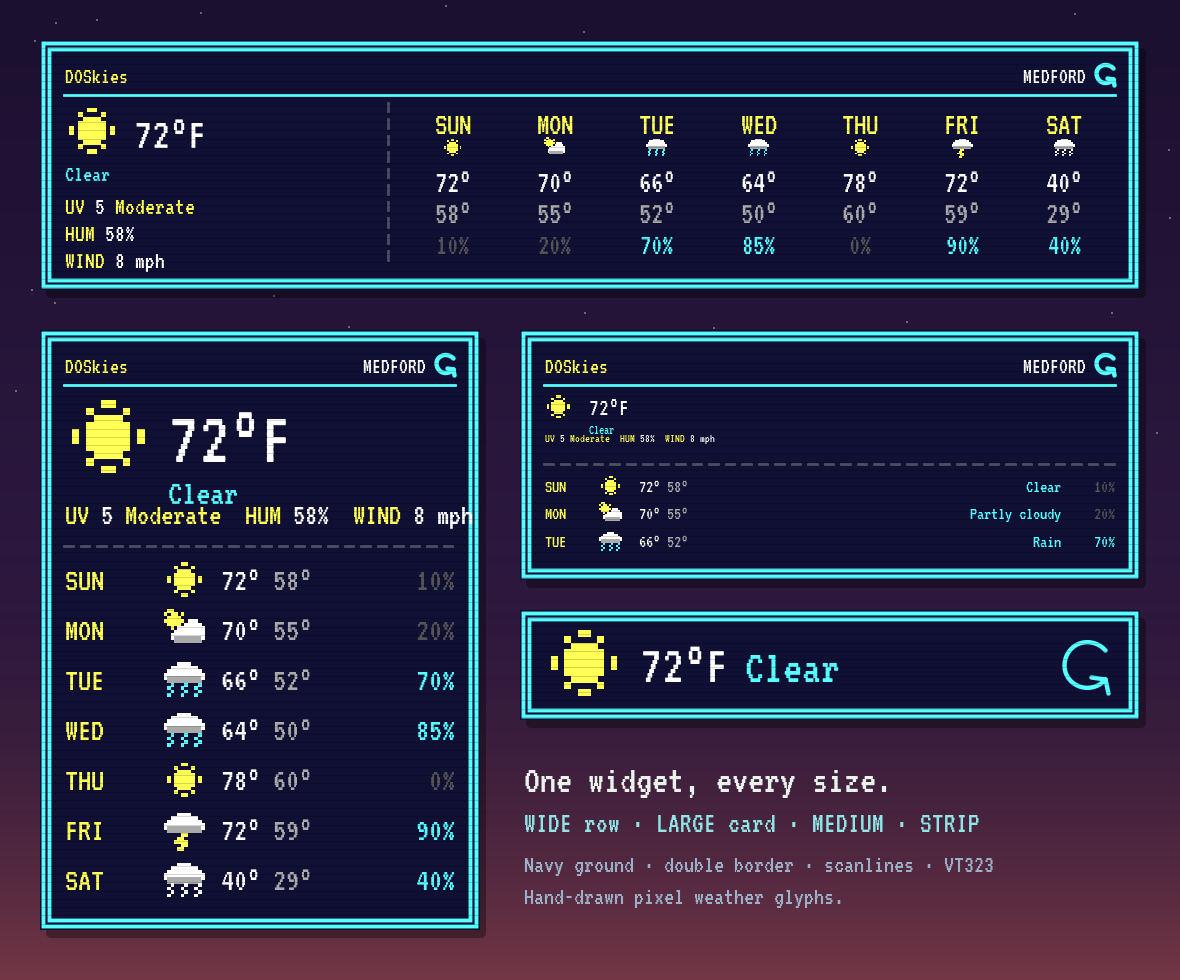
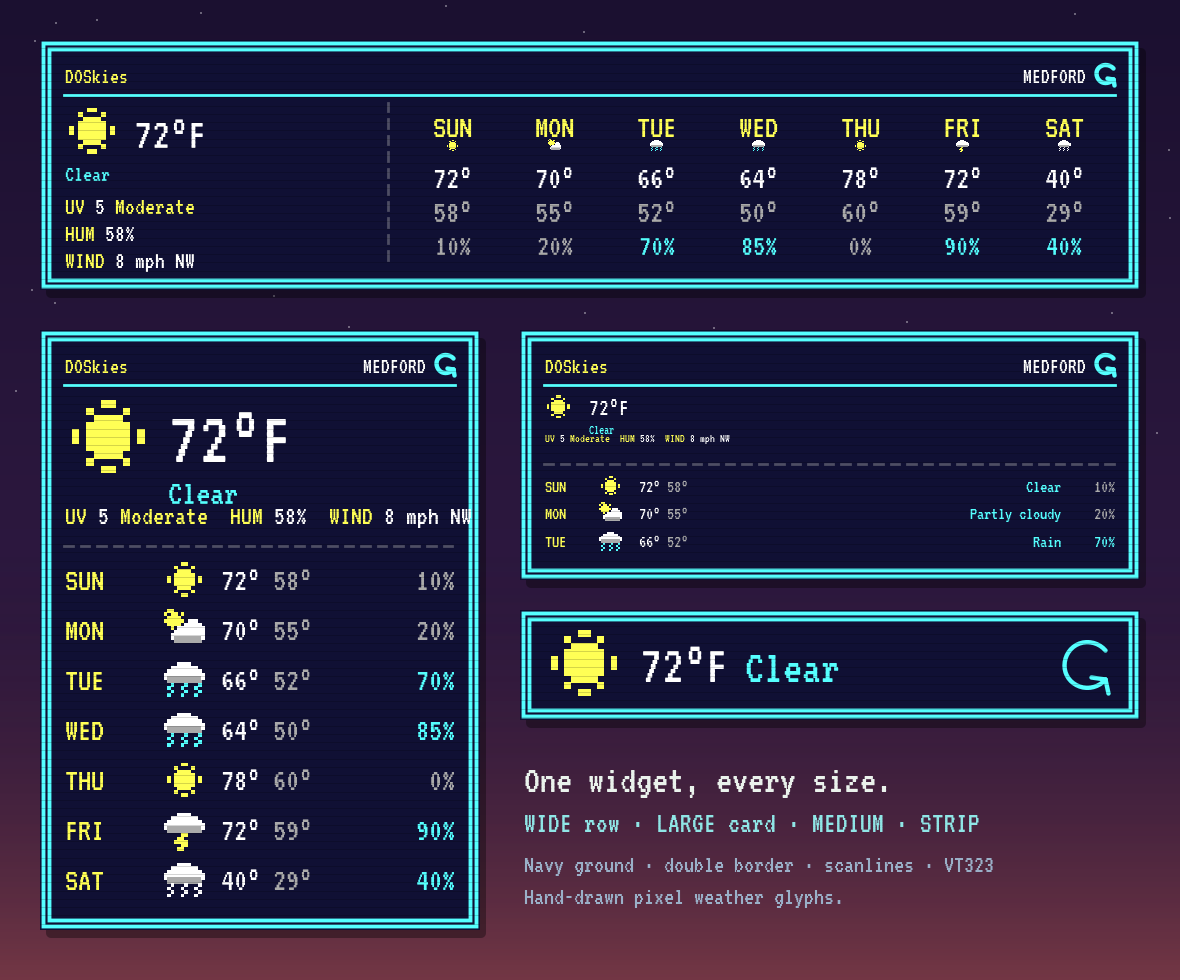
v0.5: widget refresh spinner, bigger WIDE text, wind direction
- The widget's refresh circle now spins while a tapped refresh runs.
  A home-screen widget can't animate on its own, so ForecastWidget
  repaints the refresh glyph as a rotating gapped ring (~170ms/frame)
  for the fetch's duration, driven from RefreshJob (which keeps the
  process alive) and stopped when the fetch finishes. This is the
  widget refresh feedback Dalton actually meant (not the app button).
- WIDE 7-day row: text back up near the blessed size (availH/4.85);
  the day glyph now yields the vertical room instead, so precip still
  fits. Low rain-chance numbers were dark grey (FAINT) and hard to
  read -- now DIM (light grey), in both the wide row and the list.
- Wind direction: fetch wind_direction_10m, add Forecast.Current.windDir
  and Forecast.windCompass (8-point N/NE/.../NW), show it next to the
  wind speed ("WIND 8 mph NW"). drawStatsRow now scales to the panel
  width so the added direction never runs off the edge. Tests cover the
  parse, the compass mapping, and the fetch-URL field.
- Screenshots regenerated to match. Version bumped to 0.5 (code 5).

build.ps1 green: assembleRelease, testDebugUnitTest, lintRelease.

diff --git a/app/src/main/java/app/doskies/CgaRenderer.java b/app/src/main/java/app/doskies/CgaRenderer.java
@@ -62,6 +62,7 @@ final class CgaRenderer {
         boolean statusIsError;  // draw status in BAD
         boolean demo;
         int opacity = 100;      // panel background opacity, 10..100 percent
+        int spin = -1;          // >=0 while a user refresh runs: rotates the refresh glyph (spinner)
     }
 
     private final Paint fill = new Paint(Paint.ANTI_ALIAS_FLAG);
@@ -138,7 +139,7 @@ final class CgaRenderer {
         float iconR = size * 0.42f;
         float iconCx = right - iconR;
         float iconCy = top + size * 0.42f;
-        drawRefreshIcon(cv, iconCx, iconCy, iconR);
+        drawRefreshIcon(cv, iconCx, iconCy, iconR, scr.spin);
         float rx = iconCx - iconR - 4f * d;
         text.setColor(VALUE);
         drawRight(cv, scr.place, rx, baseline, size);
@@ -155,10 +156,16 @@ final class CgaRenderer {
         return ruleY;
     }
 
-    private void drawRefreshIcon(Canvas cv, float cx, float cy, float r) {
+    private void drawRefreshIcon(Canvas cv, float cx, float cy, float r, int spin) {
         stroke.setColor(ACCENT);
         stroke.setStrokeWidth(Math.max(1.4f, 1.6f * d));
         RectF arc = new RectF(cx - r, cy - r, cx + r, cy + r);
+        if (spin >= 0) {
+            // A refresh is running: draw a gapped ring whose gap sweeps round each frame, so the
+            // icon reads as a spinner. ForecastWidget repaints these frames while the fetch runs.
+            cv.drawArc(arc, (spin * 45f) % 360f, 270, false, stroke);
+            return;
+        }
         cv.drawArc(arc, 40, 280, false, stroke);
         // arrowhead near the arc's start (about 40 degrees)
         double a = Math.toRadians(40);
@@ -195,7 +202,7 @@ final class CgaRenderer {
             text.setColor(BAD);
             drawRight(cv, "!", right - size * 0.95f, baseline, size);
         }
-        drawRefreshIcon(cv, right - size * 0.5f, h / 2f, size * 0.42f);
+        drawRefreshIcon(cv, right - size * 0.5f, h / 2f, size * 0.42f, scr.spin);
     }
 
     // ---- WIDE: current on the left, 7 day columns across ----
@@ -234,11 +241,11 @@ final class CgaRenderer {
         // 7 day columns
         float colsLeft = nowRight + 8f * d;
         float colW = (right - colsLeft) / 7f;
-        float line = Math.max(11f, availH / 5.2f);
-        // Cap the glyph to the vertical room left after the four text rows (DOW + hi + lo + precip),
-        // so the precip row is never clipped. drawWide used a fixed 1.7*line glyph and availH/4.8
-        // rows, which summed taller than availH on wide panels and pushed precip off the bottom.
-        float gsz = Math.min(colW * 0.82f, Math.max(6f, availH - 4.35f * line - 2f * d));
+        // Text kept near the blessed size (availH/4.85); the day glyph gives up whatever vertical
+        // room is left after the four text rows (DOW + hi + lo + precip) so the precip row never
+        // clips. (drawWide used to size both independently and pushed precip off the bottom edge.)
+        float line = Math.max(11f, availH / 4.85f);
+        float gsz = Math.min(colW * 0.72f, Math.max(6f, availH - 4.3f * line - 2f * d));
         for (int i = 0; i < 7 && i < f.days.length; i++) {
             Forecast.Day day = f.days[i];
             float cx = colsLeft + colW * (i + 0.5f);
@@ -254,7 +261,7 @@ final class CgaRenderer {
             text.setColor(DIM);
             drawCenter(cv, day.lo + "°", cx, y + line, line);
             y += line;
-            text.setColor(day.precipChancePct >= 25 ? ACCENT : FAINT);
+            text.setColor(day.precipChancePct >= 25 ? ACCENT : DIM);
             drawCenter(cv, day.precipChancePct + "%", cx, y + line, line * 0.92f);
         }
     }
@@ -287,7 +294,7 @@ final class CgaRenderer {
         drawLeft(cv, Wmo.label(f.current.code), left + gsz + 6f * d, top + tsz * 0.9f + csz + 2f * d, csz);
         float y = top + gsz + 3f * d;
         // stats line
-        drawStatsRow(cv, f, left, y + csz, Math.max(12f, H * 0.06f));
+        drawStatsRow(cv, f, left, y + csz, Math.max(12f, H * 0.06f), right - left);
         y += csz + 6f * d;
         // status line (freshness / error)
         if (!scr.status.isEmpty()) {
@@ -321,7 +328,7 @@ final class CgaRenderer {
             tx = drawLeft(cv, " " + day.lo + "°", tx, base, rsz);
             String pct = day.precipChancePct + "%";
             float precipW = measure(pct, rsz);
-            text.setColor(day.precipChancePct >= 25 ? ACCENT : FAINT);
+            text.setColor(day.precipChancePct >= 25 ? ACCENT : DIM);
             drawRight(cv, pct, right, base, rsz);
             // The condition word fills the empty middle of a wide row; skipped if the row is too narrow.
             String cond = Wmo.label(day.code);
@@ -335,8 +342,18 @@ final class CgaRenderer {
 
     // ---- stats ----
 
-    private void drawStatsRow(Canvas cv, Forecast f, float x, float baseline, float size) {
+    private void drawStatsRow(Canvas cv, Forecast f, float x, float baseline, float size, float maxW) {
         Forecast.Current c = f.current;
+        String uvStr = c.uvMax < 0 ? "-- " : (c.uvMax + " " + uvBand(c.uvMax) + "  ");
+        String humStr = Forecast.Current.display(c.humidity) + (c.humidity < 0 ? "  " : "%  ");
+        String dir = Forecast.windCompass(c.windDir);
+        String windStr = c.wind < 0 ? "--" : (c.wind + " " + c.windUnit + (dir.isEmpty() ? "" : " " + dir));
+        // Scale the whole line down if it would run past the panel edge (adding the wind direction
+        // made it wider). Mirrors drawStatsStacked's fit-to-width.
+        if (maxW > 0) {
+            float w = measure("UV " + uvStr + "HUM " + humStr + "WIND " + windStr, size);
+            if (w > maxW) size *= maxW / w;
+        }
         x = seg(cv, "UV ", x, baseline, size, TITLE);
         if (c.uvMax < 0) {
             x = seg(cv, "-- ", x, baseline, size, FAINT);
@@ -345,18 +362,19 @@ final class CgaRenderer {
             x = seg(cv, uvBand(c.uvMax) + "  ", x, baseline, size, uvColor(c.uvMax));
         }
         x = seg(cv, "HUM ", x, baseline, size, TITLE);
-        x = seg(cv, Forecast.Current.display(c.humidity) + (c.humidity < 0 ? "  " : "%  "), x, baseline, size, VALUE);
+        x = seg(cv, humStr, x, baseline, size, VALUE);
         x = seg(cv, "WIND ", x, baseline, size, TITLE);
-        String wind = c.wind < 0 ? "--" : (c.wind + " " + c.windUnit);
-        seg(cv, wind, x, baseline, size, VALUE);
+        seg(cv, windStr, x, baseline, size, VALUE);
     }
 
     private void drawStatsStacked(Canvas cv, Forecast f, float x, float top, float size, float maxW) {
         Forecast.Current c = f.current;
         // Scale down so the widest stat line fits the now-block width (maxW).
+        String dir = Forecast.windCompass(c.windDir);
+        String windVal = c.wind < 0 ? "--" : (c.wind + " " + c.windUnit + (dir.isEmpty() ? "" : " " + dir));
         String uvLine = "UV " + (c.uvMax < 0 ? "--" : (c.uvMax + " " + uvBand(c.uvMax)));
         String humLine = "HUM " + (c.humidity < 0 ? "--" : (c.humidity + "%"));
-        String windLine = "WIND " + (c.wind < 0 ? "--" : (c.wind + " " + c.windUnit));
+        String windLine = "WIND " + windVal;
         float widest = Math.max(measure(uvLine, size), Math.max(measure(humLine, size), measure(windLine, size)));
         if (maxW > 0 && widest > maxW) size *= maxW / widest;
         float y = top + size;
@@ -368,7 +386,7 @@ final class CgaRenderer {
         seg(cv, Forecast.Current.display(c.humidity) + (c.humidity < 0 ? "" : "%"), xx, y, size, VALUE);
         y += size + 1f * d;
         xx = seg(cv, "WIND ", x, y, size, TITLE);
-        seg(cv, c.wind < 0 ? "--" : (c.wind + " " + c.windUnit), xx, y, size, VALUE);
+        seg(cv, windVal, xx, y, size, VALUE);
     }
 
     /** Draws one left-aligned colored segment at (x, baseline); returns the x after it. */

diff --git a/app/src/test/java/app/doskies/WeatherTest.java b/app/src/test/java/app/doskies/WeatherTest.java
@@ -15,7 +15,7 @@ public class WeatherTest {
     private static final String FIXTURE = "{"
         + "\"latitude\":42.42,\"longitude\":-71.11,"
         + "\"current\":{\"time\":\"2026-09-20T14:00\",\"temperature_2m\":71.4,\"weather_code\":2,\"precipitation\":0.0,"
-        + "\"relative_humidity_2m\":64,\"wind_speed_10m\":11.6},"
+        + "\"relative_humidity_2m\":64,\"wind_speed_10m\":11.6,\"wind_direction_10m\":48},"
         + "\"daily\":{"
         + "\"time\":[\"2026-09-20\",\"2026-09-21\",\"2026-09-22\",\"2026-09-23\",\"2026-09-24\",\"2026-09-25\",\"2026-09-26\"],"
         + "\"weather_code\":[2,3,61,63,0,95,71],"
@@ -39,7 +39,19 @@ public class WeatherTest {
         assertEquals(64, f.current.humidity);
         assertEquals(12, f.current.wind); // 11.6 rounds up
         assertEquals("mph", f.current.windUnit);
+        assertEquals(48, f.current.windDir);
+        assertEquals("NE", Forecast.windCompass(f.current.windDir)); // 48 deg -> NE
         assertEquals(5, f.current.uvMax); // today's uv_index_max[0] 5.4 rounds down
+    }
+
+    @Test public void windCompassMapsBearingsToEightPoints() {
+        assertEquals("N", Forecast.windCompass(0));
+        assertEquals("N", Forecast.windCompass(360));
+        assertEquals("E", Forecast.windCompass(90));
+        assertEquals("S", Forecast.windCompass(179));
+        assertEquals("W", Forecast.windCompass(270));
+        assertEquals("NW", Forecast.windCompass(315));
+        assertEquals("", Forecast.windCompass(Forecast.UNKNOWN)); // no reading -> no label
     }
 
     @Test public void windUnitFollowsCelsius() throws Exception {
@@ -50,11 +62,12 @@ public class WeatherTest {
     @Test public void optionalCurrentFieldsAreUnknownWhenAbsentAndNeverThrow() throws Exception {
         // No relative_humidity_2m, no wind_speed_10m, no uv_index_max at all: still a valid parse.
         String noExtras = FIXTURE
-            .replace(",\"relative_humidity_2m\":64,\"wind_speed_10m\":11.6", "")
+            .replace(",\"relative_humidity_2m\":64,\"wind_speed_10m\":11.6,\"wind_direction_10m\":48", "")
             .replace(",\"uv_index_max\":[5.4,4.8,2.1,1.0,6.7,3.3,0.0]", "");
         Forecast f = Weather.parse(noExtras, 'F');
         assertEquals(Forecast.UNKNOWN, f.current.humidity);
         assertEquals(Forecast.UNKNOWN, f.current.wind);
+        assertEquals(Forecast.UNKNOWN, f.current.windDir);
         assertEquals(Forecast.UNKNOWN, f.current.uvMax);
         // The required fields are untouched by the missing optionals.
         assertEquals(71, f.current.temp);
@@ -64,11 +77,12 @@ public class WeatherTest {
 
     @Test public void optionalCurrentFieldsAreUnknownWhenNullAndNeverThrow() throws Exception {
         String nulled = FIXTURE
-            .replace("\"relative_humidity_2m\":64,\"wind_speed_10m\":11.6", "\"relative_humidity_2m\":null,\"wind_speed_10m\":null")
+            .replace("\"relative_humidity_2m\":64,\"wind_speed_10m\":11.6,\"wind_direction_10m\":48", "\"relative_humidity_2m\":null,\"wind_speed_10m\":null,\"wind_direction_10m\":null")
             .replace("\"uv_index_max\":[5.4,4.8,2.1,1.0,6.7,3.3,0.0]", "\"uv_index_max\":[null,4.8,2.1,1.0,6.7,3.3,0.0]");
         Forecast f = Weather.parse(nulled, 'F');
         assertEquals(Forecast.UNKNOWN, f.current.humidity);
         assertEquals(Forecast.UNKNOWN, f.current.wind);
+        assertEquals(Forecast.UNKNOWN, f.current.windDir);
         assertEquals(Forecast.UNKNOWN, f.current.uvMax);
     }
 
@@ -127,6 +141,8 @@ public class WeatherTest {
         assertEquals(5, cur.uvMax);
         assertEquals(8, cur.wind);
         assertEquals("mph", cur.windUnit);
+        assertEquals(315, cur.windDir);
+        assertEquals("NW", Forecast.windCompass(cur.windDir));
     }
 
     // ---- malformed responses must throw, never silently coerce to zeros ----

diff --git a/app/src/main/java/app/doskies/ForecastWidget.java b/app/src/main/java/app/doskies/ForecastWidget.java
@@ -8,6 +8,8 @@ import android.content.Context;
 import android.content.Intent;
 import android.graphics.Bitmap;
 import android.os.Bundle;
+import android.os.Handler;
+import android.os.Looper;
 import android.util.DisplayMetrics;
 import android.widget.RemoteViews;
 import java.util.Locale;
@@ -27,6 +29,36 @@ public final class ForecastWidget extends AppWidgetProvider {
     private static final String REFRESH = "app.doskies.REFRESH";
     /** Cap the rendered bitmap so a very large widget cannot exceed the RemoteViews bitmap limit. */
     private static final int MAX_BITMAP_PX = 1600;
+
+    // Refresh spinner. A home-screen widget cannot run a smooth animation, so while a user-tapped
+    // refresh is in flight we repaint the widget every ~170ms with the refresh glyph rotated one
+    // step (see CgaRenderer.drawRefreshIcon), which reads as a spinning ring. Driven from RefreshJob
+    // (the job keeps the process alive); it stops when the fetch finishes or hits a safety cap.
+    private static final Handler SPIN = new Handler(Looper.getMainLooper());
+    static volatile int spinFrame = -1; // -1 = not spinning; >=0 = current rotation step
+
+    /** Begins the spinner (call on the main thread; RefreshJob does, from onStartJob). */
+    static void startSpin(Context c) {
+        final Context app = c.getApplicationContext();
+        SPIN.removeCallbacksAndMessages(null);
+        spinFrame = 0;
+        updateAll(app);
+        SPIN.postDelayed(new Runnable() {
+            @Override public void run() {
+                if (spinFrame < 0) return;
+                spinFrame++;
+                if (spinFrame > 70) { spinFrame = -1; updateAll(app); return; } // ~12s safety cap
+                updateAll(app);
+                SPIN.postDelayed(this, 170);
+            }
+        }, 170);
+    }
+
+    /** Ends the spinner and paints the final, real state. Safe to call from any thread. */
+    static void stopSpin(Context c) {
+        final Context app = c.getApplicationContext();
+        SPIN.post(() -> { SPIN.removeCallbacksAndMessages(null); spinFrame = -1; updateAll(app); });
+    }
 
     @Override public void onUpdate(Context c, AppWidgetManager m, int[] ids) {
         for (int id : ids) m.updateAppWidget(id, build(c, m, id));
@@ -114,6 +146,7 @@ public final class ForecastWidget extends AppWidgetProvider {
         Store s = new Store(c);
         CgaRenderer.Screen scr = new CgaRenderer.Screen();
         scr.opacity = s.widgetOpacity();
+        scr.spin = spinFrame; // >=0 while a user refresh is running: draw the spinner frame
 
         if (s.demo()) {
             scr.place = s.placeLabel().toUpperCase(Locale.US);

diff --git a/app/src/main/java/app/doskies/Forecast.java b/app/src/main/java/app/doskies/Forecast.java
@@ -30,8 +30,9 @@ public final class Forecast {
         public final int uvMax;     // today's daily.uv_index_max[0], rounded; UNKNOWN (-1) if absent
         public final int wind;      // wind_speed_10m, rounded, in windUnit; UNKNOWN (-1) if absent
         public final String windUnit; // "mph" or "km/h"; matches the fetch's temperature unit
+        public final int windDir;   // wind_direction_10m, degrees (0=N, 90=E); UNKNOWN (-1) if absent
 
-        public Current(int temp, int code, double precip, int humidity, int uvMax, int wind, String windUnit) {
+        public Current(int temp, int code, double precip, int humidity, int uvMax, int wind, String windUnit, int windDir) {
             this.temp = temp;
             this.code = code;
             this.precip = precip;
@@ -39,12 +40,21 @@ public final class Forecast {
             this.uvMax = uvMax;
             this.wind = wind;
             this.windUnit = windUnit;
+            this.windDir = windDir;
         }
 
         /** Renders an optional field for display: "--" when UNKNOWN, else the value as a string. */
         public static String display(int value) {
             return value == UNKNOWN ? "--" : String.valueOf(value);
         }
+    }
+
+    /** Compass point ("N", "NE", ... "NW") the wind blows FROM, from a degree bearing; "" if UNKNOWN. */
+    public static String windCompass(int deg) {
+        if (deg == UNKNOWN) return "";
+        String[] points = { "N", "NE", "E", "SE", "S", "SW", "W", "NW" };
+        int i = (int) Math.round(((deg % 360) + 360) % 360 / 45.0) % 8;
+        return points[i];
     }
 
     /** One forecast day. hi/lo are rounded ints; precipChancePct is clamped to 0..100. */

diff --git a/app/src/main/java/app/doskies/Weather.java b/app/src/main/java/app/doskies/Weather.java
@@ -39,6 +39,7 @@ public final class Weather {
         // and never coerced to 0 (0 is itself a valid humidity/UV/wind reading).
         int humidity = optRoundedInt(current, "relative_humidity_2m");
         int wind = optRoundedInt(current, "wind_speed_10m");
+        int windDir = optRoundedInt(current, "wind_direction_10m");
         String windUnit = unit == 'C' ? "km/h" : "mph";
 
         JSONArray time = daily.optJSONArray("time");
@@ -64,7 +65,7 @@ public final class Weather {
             int code = codes.getInt(i);
             days[i] = new Forecast.Day(date, hi, lo, pop, code);
         }
-        Forecast.Current cur = new Forecast.Current(curTemp, curCode, curPrecip, humidity, uvMax, wind, windUnit);
+        Forecast.Current cur = new Forecast.Current(curTemp, curCode, curPrecip, humidity, uvMax, wind, windUnit, windDir);
         return new Forecast(unit, cur, days);
     }
 
@@ -83,7 +84,7 @@ public final class Weather {
             new Forecast.Day("2026-09-25", 72, 59, 90, 95),
             new Forecast.Day("2026-09-26", 40, 29, 40, 71),
         };
-        return new Forecast('F', new Forecast.Current(71, 1, 0.0, 78, 5, 8, "mph"), days);
+        return new Forecast('F', new Forecast.Current(71, 1, 0.0, 78, 5, 8, "mph", 315), days);
     }
 
     private static int round(double v) { return (int) Math.round(v); }

diff --git a/app/src/main/java/app/doskies/RefreshJob.java b/app/src/main/java/app/doskies/RefreshJob.java
@@ -84,9 +84,14 @@ public final class RefreshJob extends JobService {
             Repository.IO.execute(task);
             return true;
         }
+        final Context app = getApplicationContext();
+        // Spin the widget's refresh glyph only for a user-tapped refresh (NOW), never the silent
+        // periodic one, and not in demo mode (no fetch happens there).
+        final boolean userInitiated = params.getJobId() == NOW_JOB_ID;
+        if (userInitiated && !new Store(app).demo()) ForecastWidget.startSpin(app);
         FutureTask<Void> task = new FutureTask<>(() -> {
-            boolean ok = Repository.refresh(getApplicationContext());
-            ForecastWidget.updateAll(getApplicationContext());
+            boolean ok = Repository.refresh(app);
+            if (userInitiated) ForecastWidget.stopSpin(app); else ForecastWidget.updateAll(app);
             if (tasks.remove(params) != null) jobFinished(params, !ok);
             return null;
         });

diff --git a/app/src/main/java/app/doskies/Repository.java b/app/src/main/java/app/doskies/Repository.java
@@ -28,7 +28,7 @@ final class Repository {
         boolean celsius = unit == 'C';
         return String.format(Locale.US,
             "https://api.open-meteo.com/v1/forecast?latitude=%s&longitude=%s"
-                + "&current=temperature_2m,weather_code,precipitation,relative_humidity_2m,wind_speed_10m"
+                + "&current=temperature_2m,weather_code,precipitation,relative_humidity_2m,wind_speed_10m,wind_direction_10m"
                 + "&daily=weather_code,temperature_2m_max,temperature_2m_min,precipitation_probability_max,uv_index_max"
                 + "&temperature_unit=%s&precipitation_unit=%s&wind_speed_unit=%s&timezone=auto&forecast_days=7",
             lat, lon, celsius ? "celsius" : "fahrenheit", celsius ? "mm" : "inch", celsius ? "kmh" : "mph");

diff --git a/app/src/test/java/app/doskies/RepositoryTest.java b/app/src/test/java/app/doskies/RepositoryTest.java
@@ -67,6 +67,7 @@ public class RepositoryTest {
         String url = Repository.buildUrl(42.42, -71.11, 'F');
         assertTrue(url.contains("relative_humidity_2m"));
         assertTrue(url.contains("wind_speed_10m"));
+        assertTrue(url.contains("wind_direction_10m"));
         assertTrue(url.contains("uv_index_max"));
     }
 
